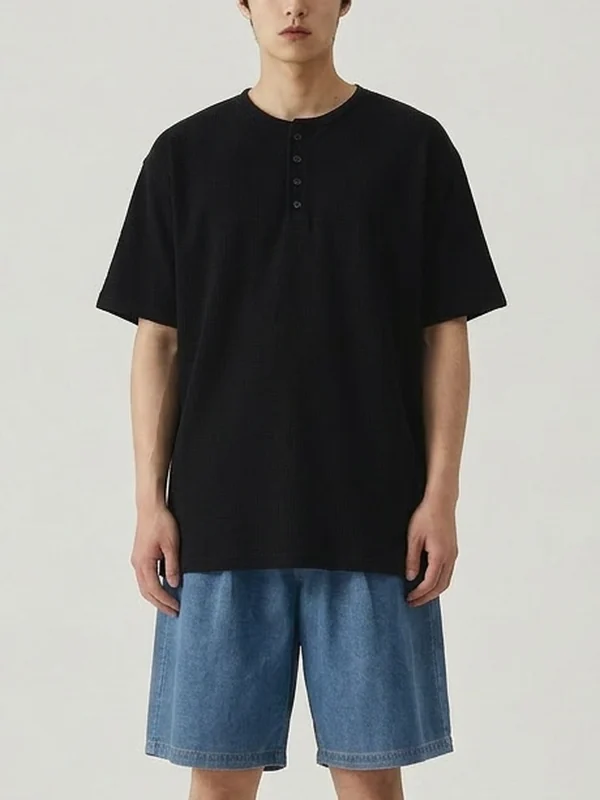
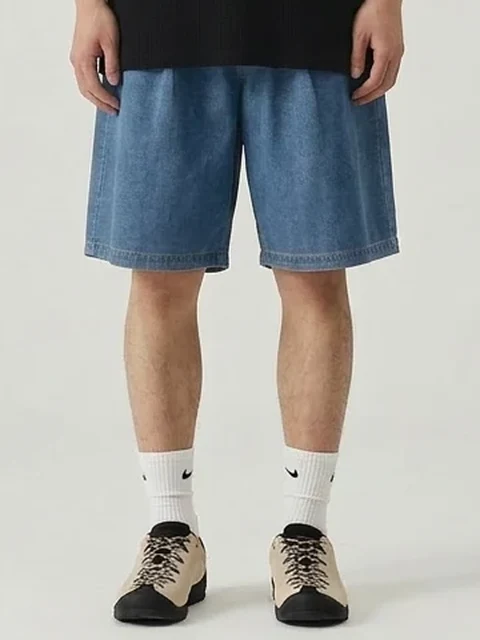
데님 쇼츠/논페이드 와이드 데님 썸네일을 허리~신발 하반신 중심으로 다시 자름
Claude-Session: https://claude.ai/code/session_01KQMEfT2ai38yMadH4zStAs

diff --git a/js/ai_works.js b/js/ai_works.js
@@ -413,7 +413,7 @@ window.AI_WORKS = [
     product: '데님 쇼츠',
     title: '데님 쇼츠',
     thumb: 'img/ai/denimshorts/thumb.webp',
-    thumbPos: '50% 30%',
+    thumbPos: '50% 50%',
     models: [
       'img/ai/denimshorts/1.webp',   // Light Blue
       'img/ai/denimshorts/2.webp',   // Blue
@@ -433,7 +433,7 @@ window.AI_WORKS = [
     product: '논페이드 와이드 데님',
     title: '논페이드 와이드 데님 Deep Blue',
     thumb: 'img/ai/glimy/deepblue-thumb.webp',
-    thumbPos: '50% 30%',
+    thumbPos: '50% 50%',
     models: [
       'img/ai/glimy/1.webp',
       'img/ai/glimy/2.webp',
@@ -452,7 +452,7 @@ window.AI_WORKS = [
     product: '논페이드 와이드 데님',
     title: '논페이드 와이드 데님 Black',
     thumb: 'img/ai/glimy/black-thumb.webp',
-    thumbPos: '50% 30%',
+    thumbPos: '50% 50%',
     models: [
       'img/ai/glimy/3.webp',
       'img/ai/glimy/5.webp',
